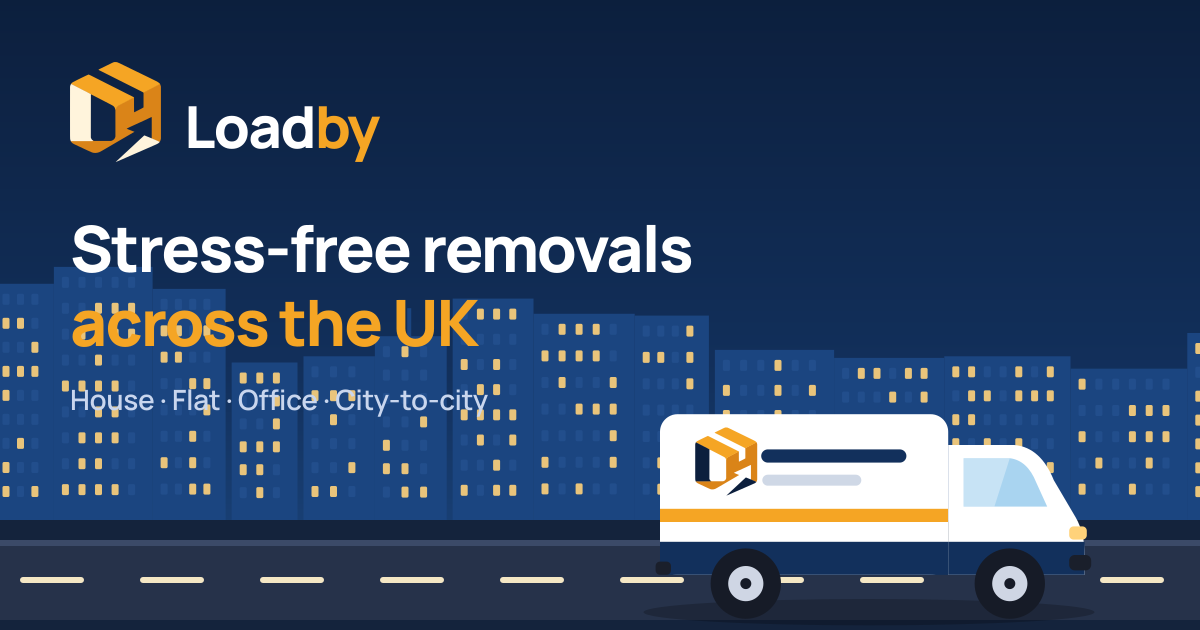
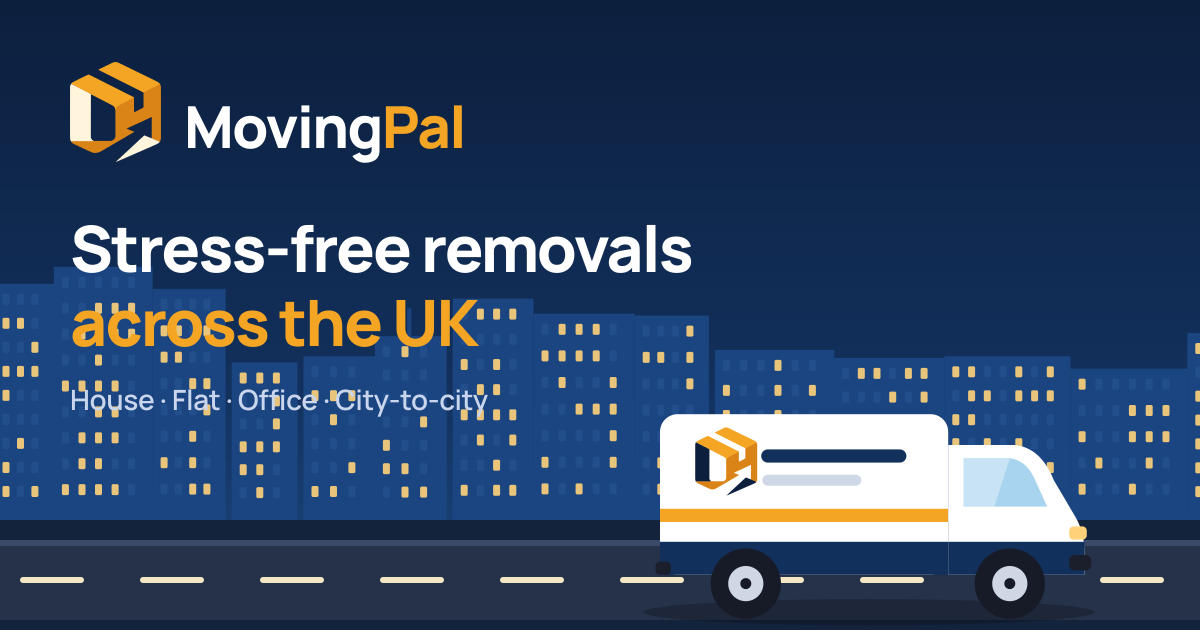
Rebrand to MovingPal (movingpal.co.uk): name, domain, emails, wordmark, van lettering, OG image, manifest, docs
Logo mark unchanged. Brand suffix on page titles now only added within 60 characters.

Claude-Session: https://claude.ai/code/session_019uxzXcTy7vXQm2V66Vu5MD

Changed region(s): [[0.1542, 0.1508, 0.4008, 0.2714]]

diff --git a/src/styles/global.css b/src/styles/global.css
@@ -1,7 +1,7 @@
 @import '@fontsource-variable/manrope';
 
 /* =====================================================================
-   Loadby design system: minimal, consistent, themeable.
+   MovingPal design system: minimal, consistent, themeable.
    - Light theme: white surfaces with the logo's navy. Dark theme: deep blue. Amber is the brand accent in both.
    - Components use SEMANTIC tokens (--bg, --surface, --heading, --sel ...), never raw colours, so one switch
      (the data-theme attribute on <html>) restyles the whole site.
@@ -288,7 +288,7 @@ ul, ol { margin: 0 0 1em; padding-left: 1.25em; }
 .site-header { position: sticky; top: 0; z-index: 50; background: var(--header-bg); backdrop-filter: saturate(1.4) blur(14px); border-bottom: 1px solid transparent; transition: border-color 0.25s, box-shadow 0.25s, background 0.25s; }
 .site-header.is-scrolled { border-bottom-color: var(--line); box-shadow: 0 6px 24px -16px rgb(12 31 61 / 0.25); background: var(--header-bg-s); }
 .site-header .container { display: flex; align-items: center; justify-content: space-between; min-height: var(--header-h); gap: 1rem; }
-/* Wordmark: "Load" in navy, "by" in amber (the route it travels). */
+/* Wordmark: "Moving" in navy, "Pal" in amber (the route it travels). */
 .brand { display: inline-flex; align-items: center; gap: 0.6rem; text-decoration: none; color: var(--heading); font-family: var(--font-head); font-weight: 800; font-size: 1.5rem; letter-spacing: -0.04em; line-height: 1; }
 .brand:hover { color: var(--heading); }
 .brand-mark { height: 40px; width: auto; flex: none; }

diff --git a/src/data/site.ts b/src/data/site.ts
@@ -3,17 +3,17 @@
  * Anything left empty ('') is hidden on the site rather than shown as a blank or made-up claim.
  */
 export const site = {
-  name: 'Loadby',
-  legalName: 'Loadby', // OWNER: change to your registered company name once incorporated, e.g. 'Loadby Removals Ltd'
+  name: 'MovingPal',
+  legalName: 'MovingPal', // OWNER: change to your registered company name once incorporated, e.g. 'MovingPal Removals Ltd'
   tagline: 'Stress-free removals across the UK',
-  url: (import.meta.env.SITE as string | undefined) || 'https://loadby.co.uk',
+  url: (import.meta.env.SITE as string | undefined) || 'https://movingpal.co.uk',
   locale: 'en-GB',
 
   // ---- Contact (NAP): keep identical to your Google Business Profile ----
   phone: '0800 000 0000',
   phoneHref: '+448000000000',
   whatsapp: '448000000000', // digits only, with country code, no +
-  email: 'hello@loadby.co.uk',
+  email: 'hello@movingpal.co.uk',
   address: {
     street: '1 Example Street',
     city: 'Manchester',

diff --git a/server/form-core.js b/server/form-core.js
@@ -6,9 +6,9 @@
  *
  * Environment variables (Vercel: Project > Settings > Environment Variables; Cloudflare: Pages > Settings):
  *   RESEND_API_KEY   secret
- *   TO_EMAIL         where messages go, e.g. hello@loadby.co.uk
- *   FROM_EMAIL       a sender on a domain verified in Resend, e.g. "Loadby <quotes@loadby.co.uk>"
- *   SITE_URL         e.g. https://loadby.co.uk  (used for the Origin check)
+ *   TO_EMAIL         where messages go, e.g. hello@movingpal.co.uk
+ *   FROM_EMAIL       a sender on a domain verified in Resend, e.g. "MovingPal <quotes@movingpal.co.uk>"
+ *   SITE_URL         e.g. https://movingpal.co.uk  (used for the Origin check)
  */
 
 export const POSTCODE = /^[A-Za-z]{1,2}\d[A-Za-z\d]?(\s*\d[A-Za-z]{2})?$/;

diff --git a/src/pages/robots.txt.ts b/src/pages/robots.txt.ts
@@ -1,7 +1,7 @@
 import type { APIRoute } from 'astro';
 
 export const GET: APIRoute = ({ site }) => {
-  const base = site?.toString() ?? 'https://loadby.co.uk/';
+  const base = site?.toString() ?? 'https://movingpal.co.uk/';
   return new Response(
     `User-agent: *\nAllow: /\nDisallow: /thank-you/\n\nSitemap: ${new URL('sitemap-index.xml', base)}\n`,
     { headers: { 'Content-Type': 'text/plain; charset=utf-8' } },

diff --git a/docs/DEPLOY.md b/docs/DEPLOY.md
@@ -1,4 +1,4 @@
-# Deploying Loadby
+# Deploying MovingPal
 
 Primary target: **Vercel**. Cloudflare Pages is supported as an alternative (see the end). Both use the same code: the build writes the right headers for each, and the quote form handler (`server/quote-handler.js`) is wrapped for each host (`api/quote.js` for Vercel, `functions/api/quote.js` for Cloudflare).
 
@@ -13,24 +13,24 @@ Primary target: **Vercel**. Cloudflare Pages is supported as an alternative (see
 ## 2. Environment variables (Settings > Environment Variables, Production)
 | Variable | Value |
 |---|---|
-| `SITE_URL` | `https://loadby.co.uk` |
-| `SECURITY_CONTACT` | `mailto:security@loadby.co.uk` |
+| `SITE_URL` | `https://movingpal.co.uk` |
+| `SECURITY_CONTACT` | `mailto:security@movingpal.co.uk` |
 | `RESEND_API_KEY` | from resend.com (mark as **Sensitive**) |
 | `TO_EMAIL` | where quote requests should arrive |
-| `FROM_EMAIL` | `Loadby <quotes@loadby.co.uk>` (domain must be verified in Resend) |
+| `FROM_EMAIL` | `MovingPal <quotes@movingpal.co.uk>` (domain must be verified in Resend) |
 
 The build detects Vercel and points the quote form at `/api/quote` and the contact form at `/api/contact` automatically. Both use the same `TO_EMAIL` and `FROM_EMAIL` (you may want separate inboxes later; that is a small change in `server/`). After changing variables, **redeploy** so the build picks them up.
 
 ## 3. Make leads actually arrive
-1. Create a Resend account, verify `loadby.co.uk` (it gives you DNS records to add), create an API key.
+1. Create a Resend account, verify `movingpal.co.uk` (it gives you DNS records to add), create an API key.
 2. Redeploy, then **submit a real test quote and a real contact message** and confirm both emails arrive. The handler is covered by unit tests and Vercel's own CLI built the function successfully, but it has not been exercised against live Vercel and Resend.
 
-## 4. Domain (loadby.co.uk)
-1. Register `loadby.co.uk` at any registrar.
-2. Vercel > **Settings > Domains**: add `loadby.co.uk` and `www.loadby.co.uk`. Vercel shows the exact DNS records to create at your registrar (typically an A record for the apex and a CNAME for `www`). Use the values Vercel displays.
-3. Set `www.loadby.co.uk` to **redirect to `loadby.co.uk`** (a Redirect option next to the domain) so only one version is indexed.
-4. Email: `hello@loadby.co.uk` is shown on the site, so make it work (your registrar's email forwarding, Google Workspace, or Cloudflare Email Routing if DNS is on Cloudflare). Add `security@` too.
-5. Google Search Console: add the domain property, submit `https://loadby.co.uk/sitemap-index.xml`. Claim your Google Business Profile using the exact name, address and phone from `src/data/site.ts`.
+## 4. Domain (movingpal.co.uk)
+1. Register `movingpal.co.uk` at any registrar.
+2. Vercel > **Settings > Domains**: add `movingpal.co.uk` and `www.movingpal.co.uk`. Vercel shows the exact DNS records to create at your registrar (typically an A record for the apex and a CNAME for `www`). Use the values Vercel displays.
+3. Set `www.movingpal.co.uk` to **redirect to `movingpal.co.uk`** (a Redirect option next to the domain) so only one version is indexed.
+4. Email: `hello@movingpal.co.uk` is shown on the site, so make it work (your registrar's email forwarding, Google Workspace, or Cloudflare Email Routing if DNS is on Cloudflare). Add `security@` too.
+5. Google Search Console: add the domain property, submit `https://movingpal.co.uk/sitemap-index.xml`. Claim your Google Business Profile using the exact name, address and phone from `src/data/site.ts`.
 
 ## 5. Lock it down
 - Vercel > **Firewall**: add a rate-limit rule for `/api/quote` (for example 5 requests per 10 minutes per IP). Availability of rules depends on your plan. The handler also has a best-effort per-instance throttle as a backstop.
@@ -62,4 +62,4 @@ CI (`.github/workflows/ci.yml`) runs the same on every push.
 ---
 
 ## Alternative: Cloudflare Pages
-Free plan, global CDN, supports commercial use. Connect the repo (Workers & Pages > Create > Pages), framework Astro, build `npm run build`, output `dist`, env var `NODE_VERSION=22`. Add the same variables as above. The build detects Cloudflare, uses `dist/_headers` and routes the form to `functions/api/quote.js`. Add a WAF rate-limiting rule for `/api/quote`. Domain: add `loadby.co.uk` and `www` under Custom domains, with a redirect rule from `www` to the apex.
+Free plan, global CDN, supports commercial use. Connect the repo (Workers & Pages > Create > Pages), framework Astro, build `npm run build`, output `dist`, env var `NODE_VERSION=22`. Add the same variables as above. The build detects Cloudflare, uses `dist/_headers` and routes the form to `functions/api/quote.js`. Add a WAF rate-limiting rule for `/api/quote`. Domain: add `movingpal.co.uk` and `www` under Custom domains, with a redirect rule from `www` to the apex.

diff --git a/docs/ADSENSE.md b/docs/ADSENSE.md
@@ -17,7 +17,7 @@ A sensible plan: build traffic and leads first, then enable ads on the blog if t
 | Original, useful content | 6 solid articles + 8 services + 12 cities + 14 routes. **Aim for 25+ articles** before applying; thin sites are the top rejection reason |
 | About, Contact, Privacy, Terms pages | Done |
 | Clear navigation, mobile-friendly, fast, accessible | Done (Lighthouse 100 / axe 0 violations) |
-| No placeholder text or fake details | **You:** replace the placeholder phone `0800 000 0000`, `hello@loadby.co.uk` (create the mailbox) and the demo address in `src/data/site.ts` first |
+| No placeholder text or fake details | **You:** replace the placeholder phone `0800 000 0000`, `hello@movingpal.co.uk` (create the mailbox) and the demo address in `src/data/site.ts` first |
 | Privacy policy covers advertising/cookies | Done automatically when ads are enabled |
 | Consent for UK/EEA visitors | **You:** create Google's free consent message (below). A Google-certified CMP is required there |
 | `ads.txt` | Generated at build when `PUBLIC_ADSENSE_CLIENT` is set |
@@ -30,7 +30,7 @@ A sensible plan: build traffic and leads first, then enable ads on the blog if t
    - optional `PUBLIC_ADSENSE_SLOT=...` (a manual in-article ad unit ID). Without it, Google "auto ads" place ads and you control them in the AdSense console. Exclude any page you do not want ads on.
 4. **On Vercel, regenerate `vercel.json`** with the same variable and commit it (`PUBLIC_ADSENSE_CLIENT=ca-pub-... npm run vercel:config`), because Vercel reads headers from that file. Then redeploy. The build then: adds the loader to blog articles, writes `/ads.txt`, and **relaxes the Content-Security-Policy for Google** (documented in `scripts/postbuild.mjs`).
 5. Open an article in a browser with DevTools open and confirm there are no CSP errors. This relaxation was written to Google's published guidance but could not be tested against live ads from here.
-6. Check `https://loadby.co.uk/ads.txt` shows `google.com, pub-..., DIRECT, f08c47fec0942fa0`.
+6. Check `https://movingpal.co.uk/ads.txt` shows `google.com, pub-..., DIRECT, f08c47fec0942fa0`.
 
 ## Rules to keep your account safe
 - Never click your own ads or ask others to.

diff --git a/README.md b/README.md
@@ -1,4 +1,4 @@
-# Loadby: UK moving company website (loadby.co.uk)
+# MovingPal: UK moving company website (movingpal.co.uk)
 
 Fast, SEO-first lead-generation site for a UK removals company. Built with [Astro](https://astro.build) (static HTML, almost no JavaScript).
 
@@ -43,7 +43,7 @@ Needs Node 22+.
 6. **Legal pages**: privacy, terms and cookies are templates. Get them reviewed. Add a consent banner before adding GA4 or ad pixels.
 7. **Reviews**: add real reviews to `src/data/reviews.ts`. Review sections and rating schema only appear when it has entries.
 8. **Images**: the blog/hero images are original illustrations (no licensing issues). Swap in real photos by replacing files in `src/assets/blog/` and `src/assets/img/`.
-9. **Logo**: the approved parcel-with-arrow mark. The original AI-generated image is kept in `docs/brand/logo-source.jpg`; the site uses a clean vector trace of it (`scripts/logo-mark.json`), which `npm run images` turns into `public/logo-mark.svg`, `public/logo-mark-light.svg` (for dark backgrounds), the favicon, app icons, schema logo, social card and the vans in the illustrations. The header and footer use `src/components/Logo.astro` (mark + "Loadby" wordmark in Manrope). To replace the logo, re-trace the new artwork into `scripts/logo-mark.json` and run `npm run images`.
+9. **Logo**: the approved parcel-with-arrow mark. The original AI-generated image is kept in `docs/brand/logo-source.jpg`; the site uses a clean vector trace of it (`scripts/logo-mark.json`), which `npm run images` turns into `public/logo-mark.svg`, `public/logo-mark-light.svg` (for dark backgrounds), the favicon, app icons, schema logo, social card and the vans in the illustrations. The header and footer use `src/components/Logo.astro` (mark + "MovingPal" wordmark in Manrope). To replace the logo, re-trace the new artwork into `scripts/logo-mark.json` and run `npm run images`.
 
 ## Design system
 

diff --git a/docs/PLAN.md b/docs/PLAN.md
@@ -1,6 +1,6 @@
 # Moving Company Website: Master Plan (UK)
 
-> Brand: **Loadby** (loadby.co.uk). Brand name, contact details and claims live in one file: `src/data/site.ts`.
+> Brand: **MovingPal** (movingpal.co.uk). Brand name, contact details and claims live in one file: `src/data/site.ts`.
 
 ## 1. Goal
 
